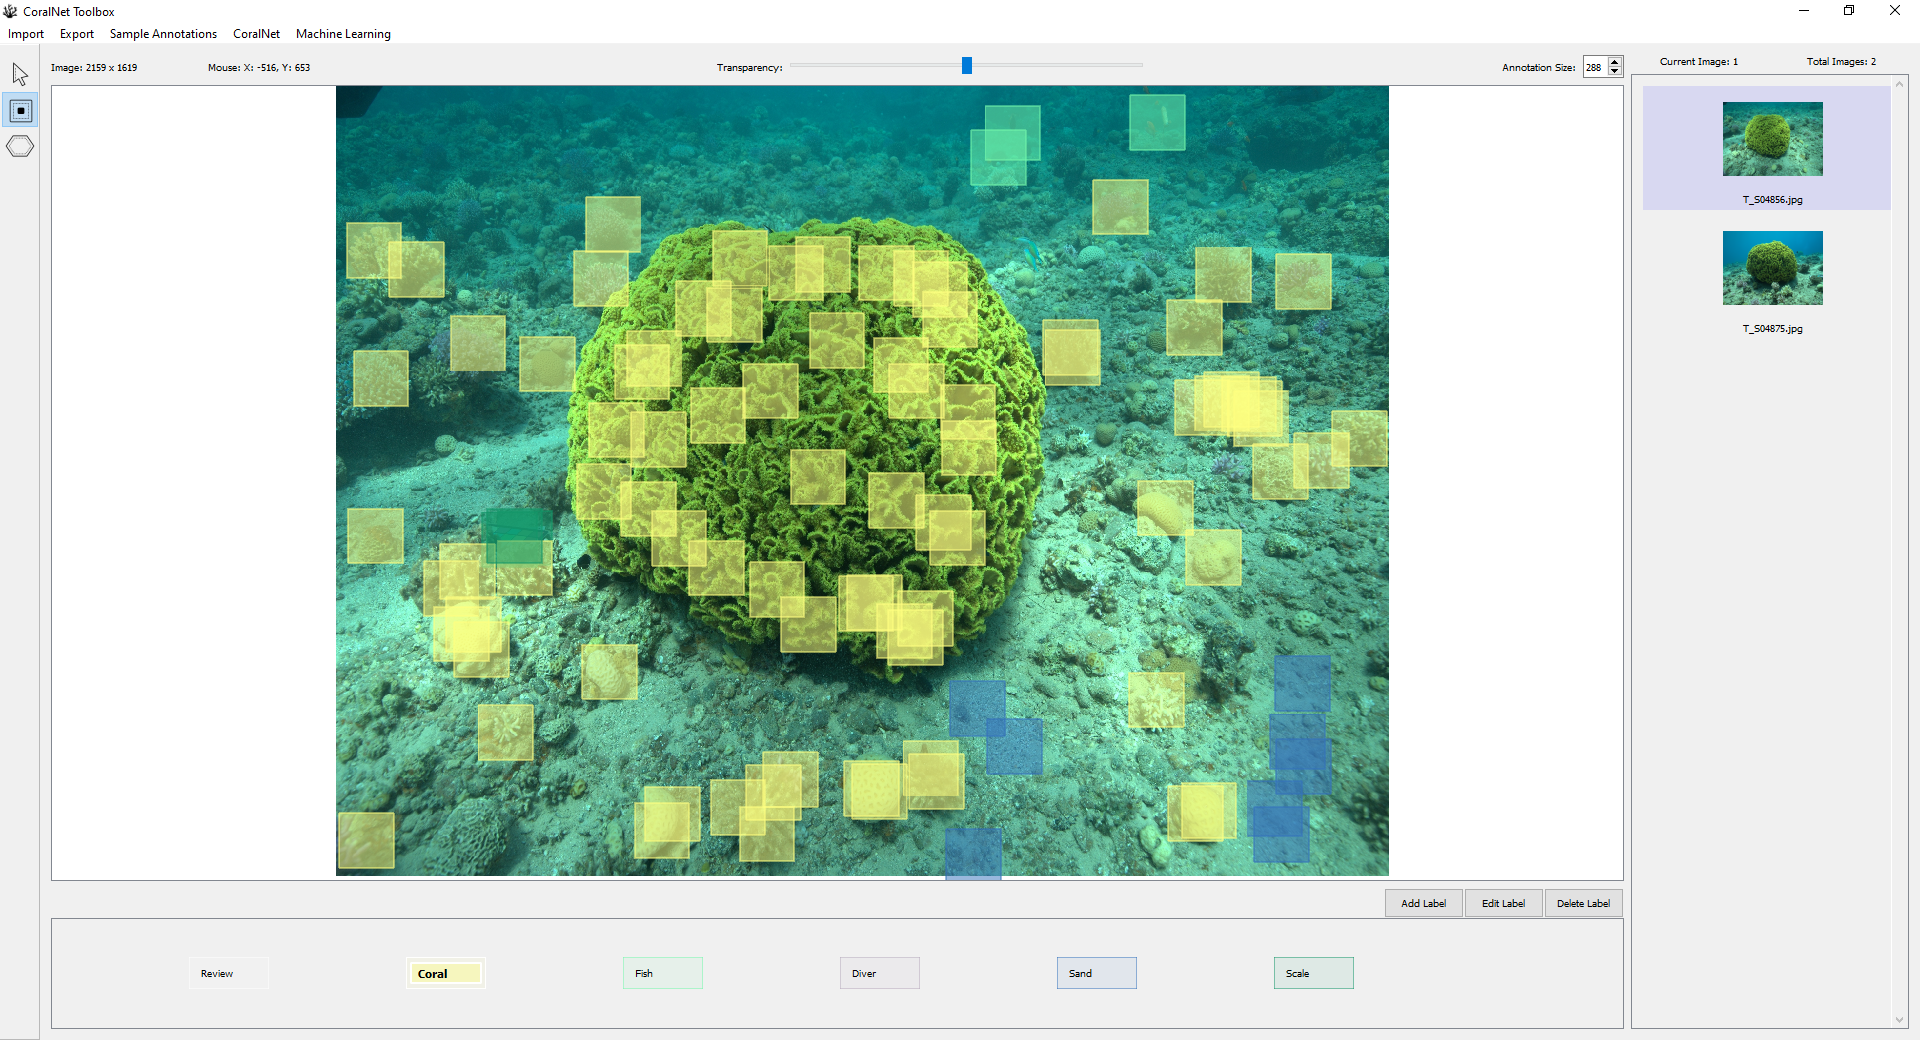
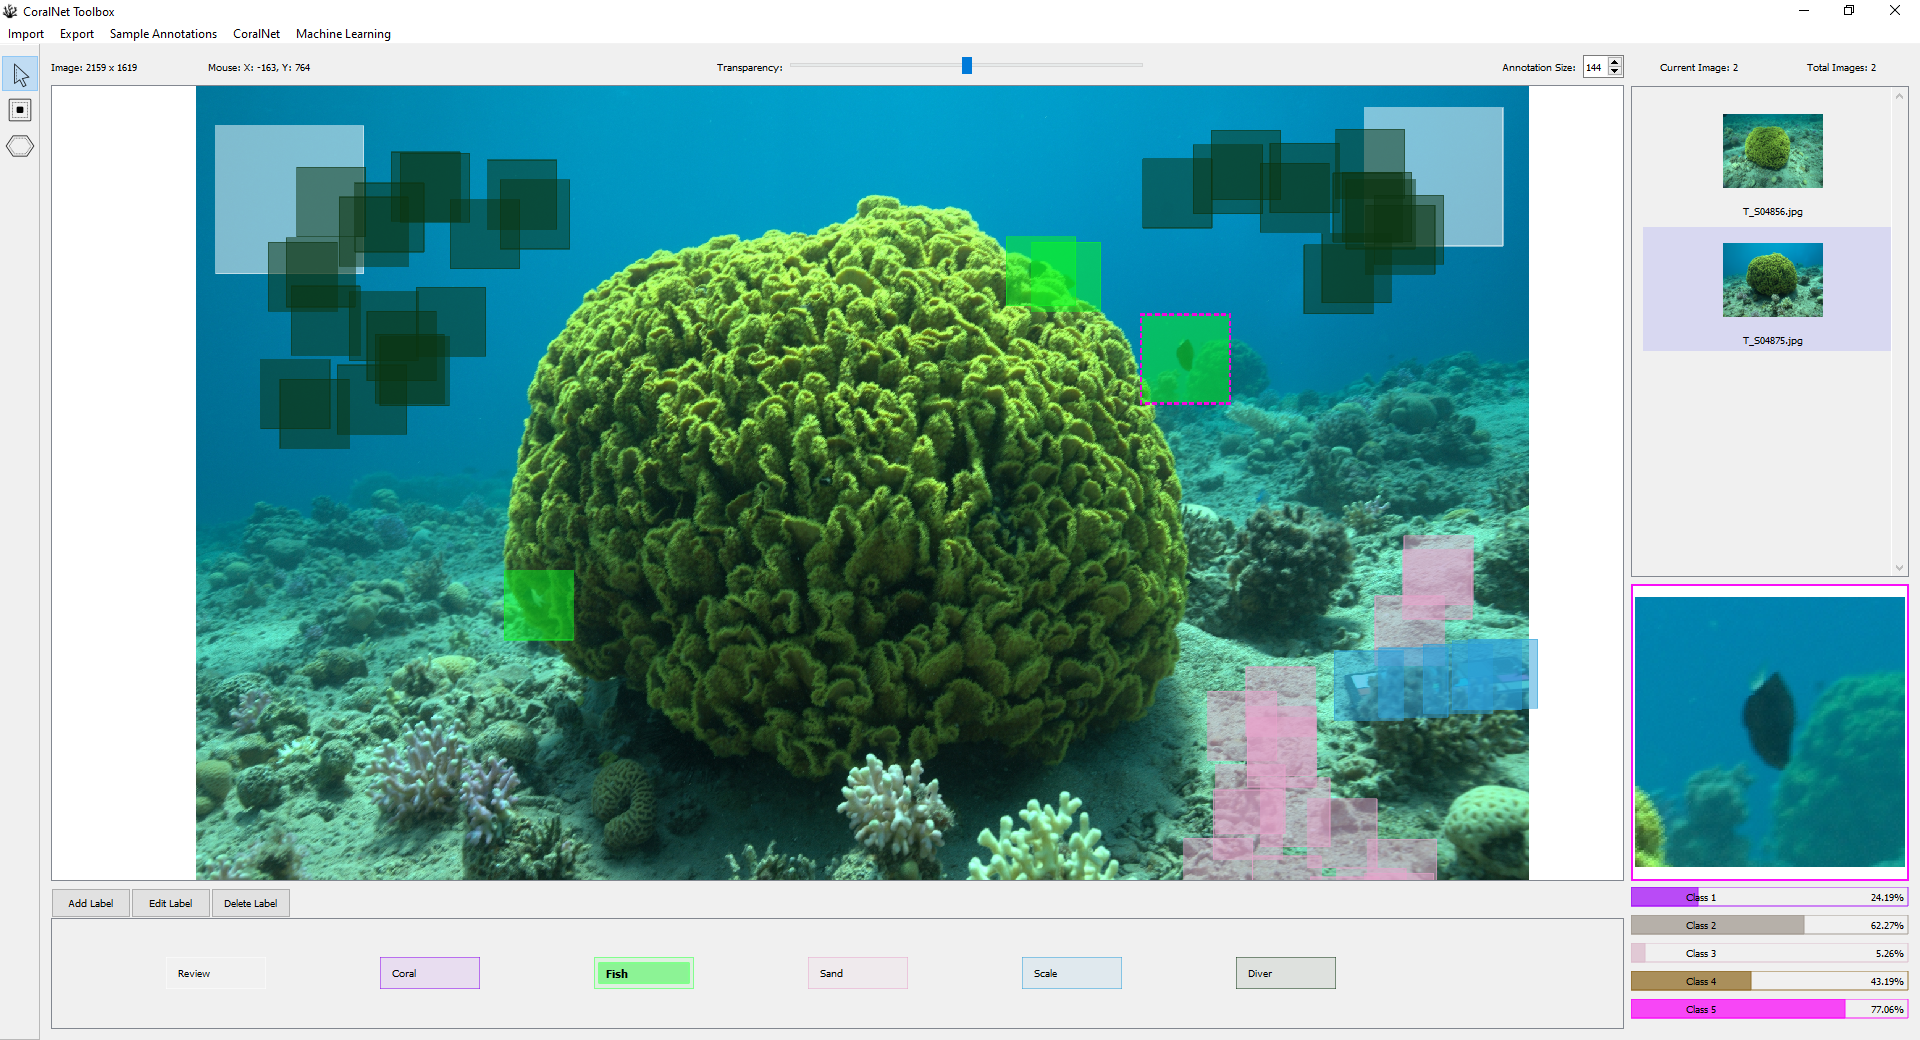
fixed unselect when importing; working

diff --git a/Toolbox/Tools/Patch_Extractor/Patch_Extractor.py b/Toolbox/Tools/Patch_Extractor/Patch_Extractor.py
@@ -1,23 +1,27 @@
+# TODO
+#   - When importing annotations, for the unselect of all tools (otherwise selected annotations get a label)
+#   - If a user has annotation selected, and they zoom, update confidence window accordingly (message about scores lost)
+#   - Move annotation crop as a method, store confidences, change confidence window to take annotation directly,
+#       connect to labelwindow
+
 import os
 import uuid
 import json
 import random
 import weakref
 
-import numpy as np
 import pandas as pd
-
-import pyqtgraph as PyQtGraph
 
 from PyQt5.QtWidgets import (QProgressBar, QMainWindow, QFileDialog, QApplication, QGridLayout, QGraphicsView,
                              QGraphicsScene, QGraphicsPixmapItem, QGraphicsRectItem, QToolBar, QAction, QScrollArea,
                              QSizePolicy, QMessageBox, QCheckBox, QDialog, QHBoxLayout, QWidget, QVBoxLayout, QLabel,
-                             QPushButton, QColorDialog, QMenu, QLineEdit, QSpinBox, QDialog, QVBoxLayout, QHBoxLayout,
-                             QLabel, QPushButton, QComboBox, QSpinBox, QGraphicsPixmapItem, QGraphicsRectItem, QSlider,
+                             QPushButton, QColorDialog, QMenu, QLineEdit, QSpinBox, QDialog, QHBoxLayout,
+                             QPushButton, QComboBox, QSpinBox, QGraphicsPixmapItem, QGraphicsRectItem, QSlider,
                              QFormLayout, QInputDialog, QFrame)
 
 from PyQt5.QtGui import QMouseEvent, QIcon, QImage, QPixmap, QColor, QPainter, QPen, QBrush, QFontMetrics, QFont
 from PyQt5.QtCore import Qt, pyqtSignal, QSize, QObject, QThreadPool, QRunnable, QTimer, QEvent, QPointF, QRectF
+
 
 
 class GlobalEventFilter(QObject):
@@ -119,8 +123,10 @@ class MainWindow(QMainWindow):
         self.annotation_window.imageLoaded.connect(self.update_image_dimensions)
         self.annotation_window.mouseMoved.connect(self.update_mouse_position)
 
-        # Connect the toolChanged signal to the AnnotationWindow
+        # Connect the toolChanged signal (to the AnnotationWindow)
         self.toolChanged.connect(self.annotation_window.set_selected_tool)
+        # Connect the toolChanged signal (to the Toolbar)
+        self.annotation_window.toolChanged.connect(self.handle_tool_changed)
 
         # Connect the selectedLabel signal to the LabelWindow's set_selected_label method
         self.annotation_window.labelSelected.connect(self.label_window.set_selected_label)
@@ -334,6 +340,17 @@ class MainWindow(QMainWindow):
                 self.toolChanged.emit("annotate")
             else:
                 self.toolChanged.emit(None)
+
+    def handle_tool_changed(self, tool):
+        if tool == "select":
+            self.select_tool_action.setChecked(True)
+            self.annotate_tool_action.setChecked(False)
+        elif tool == "annotate":
+            self.select_tool_action.setChecked(False)
+            self.annotate_tool_action.setChecked(True)
+        else:
+            self.select_tool_action.setChecked(False)
+            self.annotate_tool_action.setChecked(False)
 
     def update_image_dimensions(self, width, height):
         self.image_dimensions_label.setText(f"Image: {width} x {height}")
@@ -690,9 +707,12 @@ class Annotation(QObject):
 
     @classmethod
     def from_dict(cls, data):
-        return cls(QPointF(*data['center_xy']), data['annotation_size'],
-                   data['label_short_code'], data['label_long_code'],
-                   QColor(*data['annotation_color']), data['image_path'],
+        return cls(QPointF(*data['center_xy']),
+                   data['annotation_size'],
+                   data['label_short_code'],
+                   data['label_long_code'],
+                   QColor(*data['annotation_color']),
+                   data['image_path'],
                    data['label_id'])
 
     def to_coralnet_format(self):
@@ -737,7 +757,13 @@ class Annotation(QObject):
                                        self.annotation_size)
             color = QColor(self.label.color)
             color.setAlpha(self.transparency)
-            pen = QPen(color, 4, Qt.DotLine if self.is_selected else Qt.SolidLine)
+
+            if self.is_selected:
+                inverse_color = QColor(255 - color.red(), 255 - color.green(), 255 - color.blue())
+                pen = QPen(inverse_color, 4, Qt.DotLine)  # Inverse color, thicker border, and dotted line
+            else:
+                pen = QPen(color, 2, Qt.SolidLine)  # Default border color and thickness
+
             self.graphics_item.setPen(pen)
             brush = QBrush(color)
             self.graphics_item.setBrush(brush)
@@ -858,6 +884,11 @@ class AnnotationWindow(QGraphicsView):
 
     def import_annotations(self):
 
+        # Unselect tool, annotation
+        self.set_selected_tool(None)
+        # Emit message
+        self.toolChanged.emit(None)
+
         if not self.active_image:
             QMessageBox.warning(self,
                                 "No Images Loaded",
@@ -886,9 +917,6 @@ class AnnotationWindow(QGraphicsView):
 
                 # Filter annotations to include only those for images already in the program
                 filtered_annotations = {p: a for p, a in imported_annotations.items() if p in self.loaded_image_paths}
-
-                # Count the number of images loaded with annotations
-                loaded_images_with_annotations = len(filtered_annotations)
 
                 # Add labels to LabelWindow if they are not already present and update annotation colors
                 updated_annotations = False
@@ -982,6 +1010,11 @@ class AnnotationWindow(QGraphicsView):
                                     f"An error occurred while exporting annotations: {str(e)}")
 
     def import_coralnet_annotations(self):
+
+        # Unselect tool, annotation
+        self.set_selected_tool(None)
+        # Emit message
+        self.toolChanged.emit(None)
 
         if not self.active_image:
             QMessageBox.warning(self,
@@ -1205,6 +1238,14 @@ class AnnotationWindow(QGraphicsView):
         self.zoom_factor *= factor
         self.scale(factor, factor)
 
+        # Maintain the cursor style based on the selected tool
+        if self.selected_tool == "select":
+            self.setCursor(Qt.PointingHandCursor)
+        elif self.selected_tool == "annotate":
+            self.setCursor(Qt.CrossCursor)
+        else:
+            self.setCursor(Qt.ArrowCursor)
+
     def mousePressEvent(self, event: QMouseEvent):
         if self.active_image:
 
@@ -1350,9 +1391,10 @@ class AnnotationWindow(QGraphicsView):
     def load_annotations(self, image_path):
         for annotation_id, annotation in self.annotations_dict.items():
             if annotation.image_path == image_path:
-                annotation.create_graphics_item(self.scene)
-                annotation.selected.connect(self.select_annotation)
-                annotation.annotation_deleted.connect(self.delete_annotation)
+                if not annotation.graphics_item:
+                    annotation.create_graphics_item(self.scene)
+                    annotation.selected.connect(self.select_annotation)
+                    annotation.annotation_deleted.connect(self.delete_annotation)
 
     def add_annotation(self, scene_pos: QPointF, annotation=None):
 
@@ -2005,7 +2047,8 @@ class LabelWindow(QWidget):
         default_long_label_code = "Review"
         default_color = QColor(255, 255, 255)  # White color
         self.add_label(default_short_label_code, default_long_label_code, default_color, label_id="-1")
-        # Do not set the default label as active
+        # Deselect at first
+        self.active_label.deselect()
 
         self.show_confirmation_dialog = True
 
@@ -2243,6 +2286,27 @@ class LabelWindow(QWidget):
             self.set_active_label(self.labels[new_index])
 
 
+class CustomBar(QFrame):
+    def __init__(self, color, value, parent=None):
+        super().__init__(parent)
+        self.color = color
+        self.value = value
+        self.setFixedHeight(20)  # Set a fixed height for the bars
+
+    def paintEvent(self, event):
+        painter = QPainter(self)
+        painter.setRenderHint(QPainter.Antialiasing)
+
+        # Draw the border
+        painter.setPen(self.color)
+        painter.drawRect(0, 0, self.width() - 1, self.height() - 1)
+
+        # Draw the filled part of the bar
+        filled_width = int(self.width() * (self.value / 100))
+        painter.setBrush(QColor(self.color.red(), self.color.green(), self.color.blue(), 192))  # 75% transparency
+        painter.drawRect(0, 0, filled_width, self.height() - 1)
+
+
 class ConfidenceWindow(QWidget):
     def __init__(self, parent=None):
         super().__init__(parent)
@@ -2254,15 +2318,18 @@ class ConfidenceWindow(QWidget):
         self.graphics_view = QGraphicsView(self)
         self.scene = QGraphicsScene(self)
         self.graphics_view.setScene(self.scene)
-        self.layout.addWidget(self.graphics_view, 2)  # 3 for stretch factor
+        self.layout.addWidget(self.graphics_view, 2)  # 2 for stretch factor
 
         # Add a blank pixmap to the scene
         blank_pixmap = QPixmap(100, 100)  # Adjust size as needed
         blank_pixmap.fill(Qt.transparent)
         self.scene.addPixmap(blank_pixmap)
 
-        # Bottom part: PyQtGraph widget for bar chart
-        self.bar_chart_widget = PyQtGraph.PlotWidget()
+        # Bottom part: Custom widget for bar chart
+        self.bar_chart_widget = QWidget()
+        self.bar_chart_layout = QVBoxLayout(self.bar_chart_widget)
+        self.bar_chart_layout.setContentsMargins(0, 0, 0, 0)
+        self.bar_chart_layout.setSpacing(2)  # Set spacing to make bars closer
         self.layout.addWidget(self.bar_chart_widget, 1)  # 1 for stretch factor
 
         # Create a minimal bar chart
@@ -2280,35 +2347,38 @@ class ConfidenceWindow(QWidget):
 
     def create_bar_chart(self):
         # Clear any existing items
-        self.bar_chart_widget.clear()
-
-        # Set background to white
-        self.bar_chart_widget.setBackground('w')
+        for i in reversed(range(self.bar_chart_layout.count())):
+            self.bar_chart_layout.itemAt(i).widget().setParent(None)
 
         # Create data for the bar chart
-        x = [0, 1, 2]
-        y = [0.5, 0.7, 0.3]  # Example values, adjust as needed
-        colors = ['r', 'g', 'b']
+        classes = ['Class 1', 'Class 2', 'Class 3', 'Class 4', 'Class 5']
+        colors = [QColor(random.randint(0, 255),
+                         random.randint(0, 255),
+                         random.randint(0, 255)) for _ in range(5)]
+        values = [random.uniform(0, 1) * 100 for _ in range(5)]  # Random values between 0 and 1
+
+        # Find the class with the highest ratio
+        max_value_index = values.index(max(values))
+        max_color = colors[max_value_index]
+
+        # Set the border color of the QGraphicsView
+        self.graphics_view.setStyleSheet(f"border: 2px solid {max_color.name()};")
 
         # Create bar graph items
-        for i in range(3):
-            bar = PyQtGraph.BarGraphItem(x=[x[i]], height=[y[i]], width=0.15, brush=colors[i])
-            self.bar_chart_widget.addItem(bar)
+        for i in range(5):
+            bar_widget = CustomBar(colors[i], values[i], self.bar_chart_widget)
+            bar_layout = QHBoxLayout(bar_widget)
+            bar_layout.setContentsMargins(5, 2, 5, 2)
 
-        # Set axis properties
-        self.bar_chart_widget.setXRange(0, 3)
-        self.bar_chart_widget.setYRange(0, 1)
-        self.bar_chart_widget.getAxis('left').setTicks([[(v, str(v)) for v in [0, 0.5, 1]]])
-        self.bar_chart_widget.getAxis('bottom').setTicks([[(v, str(v)) for v in [0, 1, 2]]])
+            class_label = QLabel(classes[i], bar_widget)
+            class_label.setAlignment(Qt.AlignCenter)
+            bar_layout.addWidget(class_label)
 
-        # Remove top and right axes
-        self.bar_chart_widget.showAxis('top', False)
-        self.bar_chart_widget.showAxis('right', False)
+            percentage_label = QLabel(f"{values[i]:.2f}%", bar_widget)
+            percentage_label.setAlignment(Qt.AlignRight | Qt.AlignVCenter)
+            bar_layout.addWidget(percentage_label)
 
-        # Remove labels and title for minimalism
-        self.bar_chart_widget.setLabel('left', '')
-        self.bar_chart_widget.setLabel('bottom', '')
-        self.bar_chart_widget.setTitle('')
+            self.bar_chart_layout.addWidget(bar_widget)
 
     def display_cropped_image(self, pixmap):
         self.scene.clear()
@@ -2322,6 +2392,10 @@ class ConfidenceWindow(QWidget):
 
         # Center the image in the view
         self.graphics_view.centerOn(self.scene.sceneRect().center())
+
+        # Recreate the bar chart with new colors and values
+        self.create_bar_chart()
+
 
 def patch_extractor():
     app = QApplication([])
